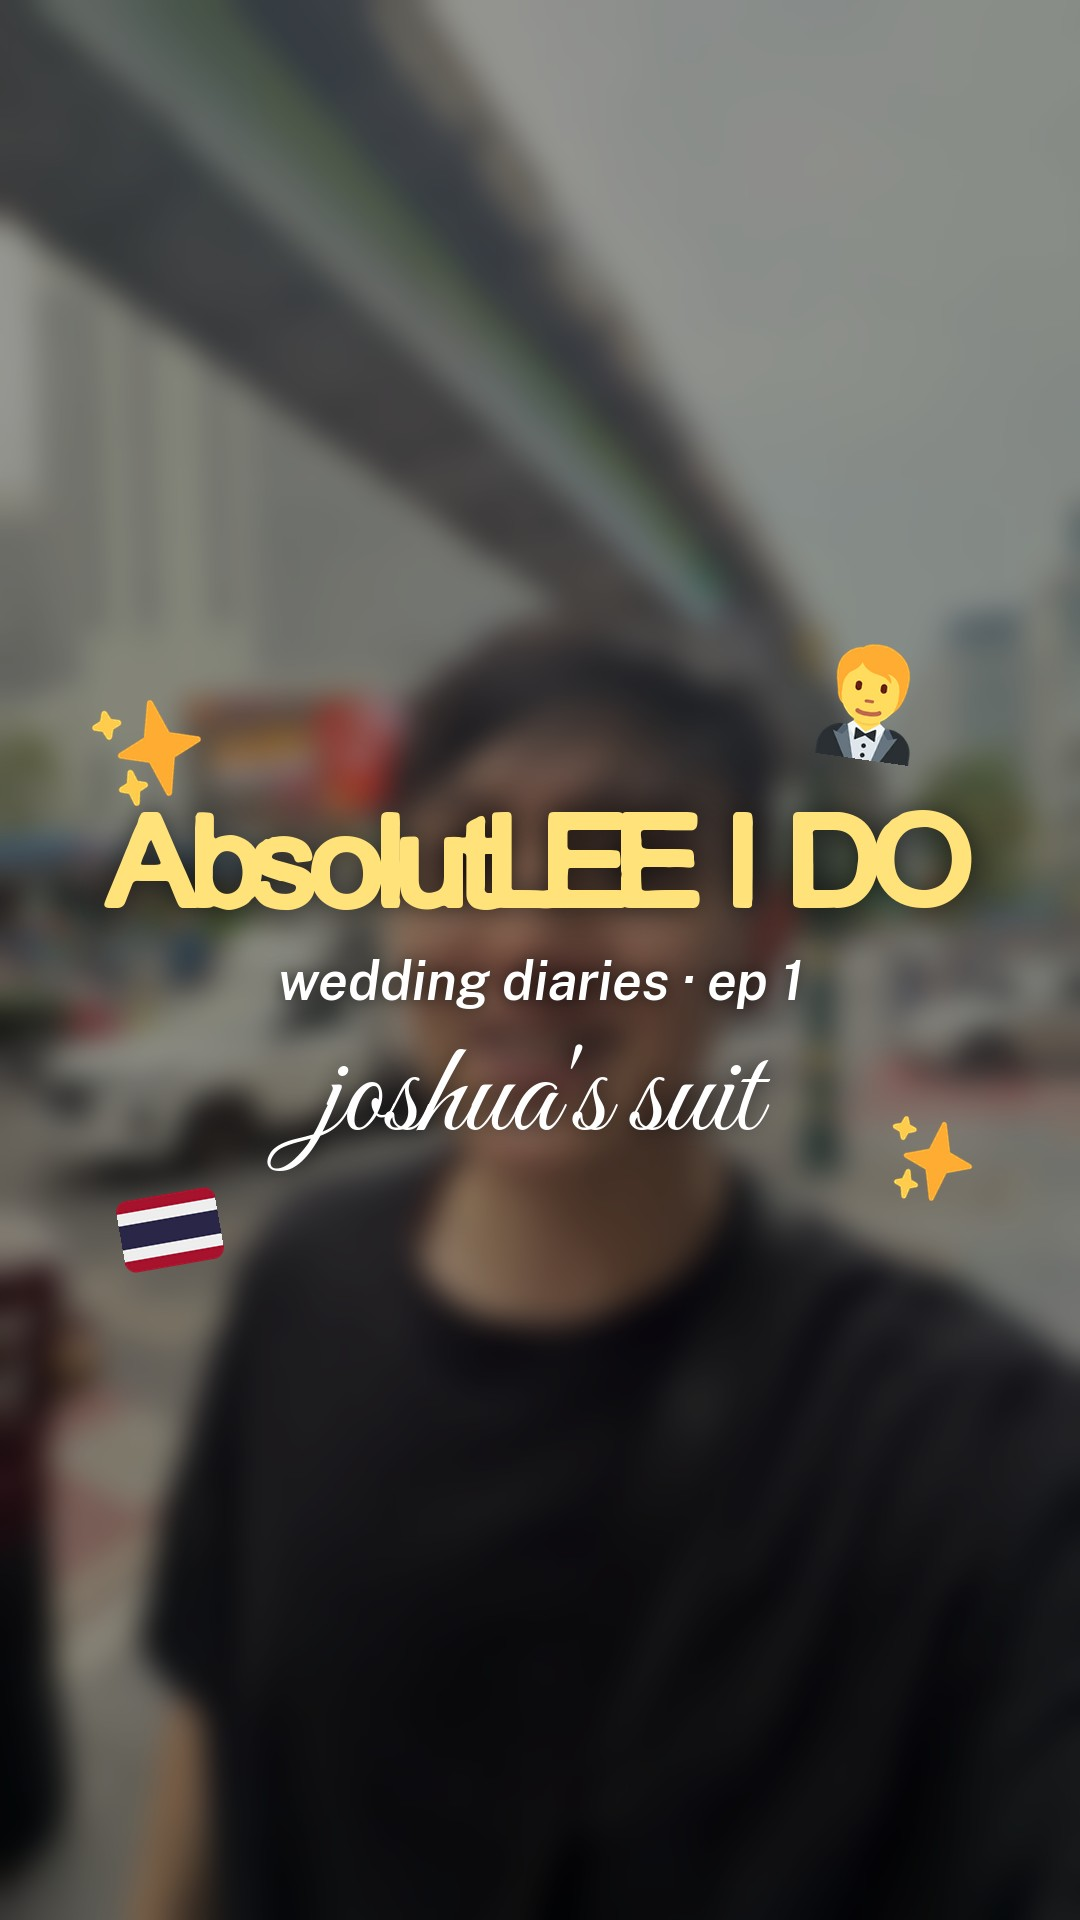
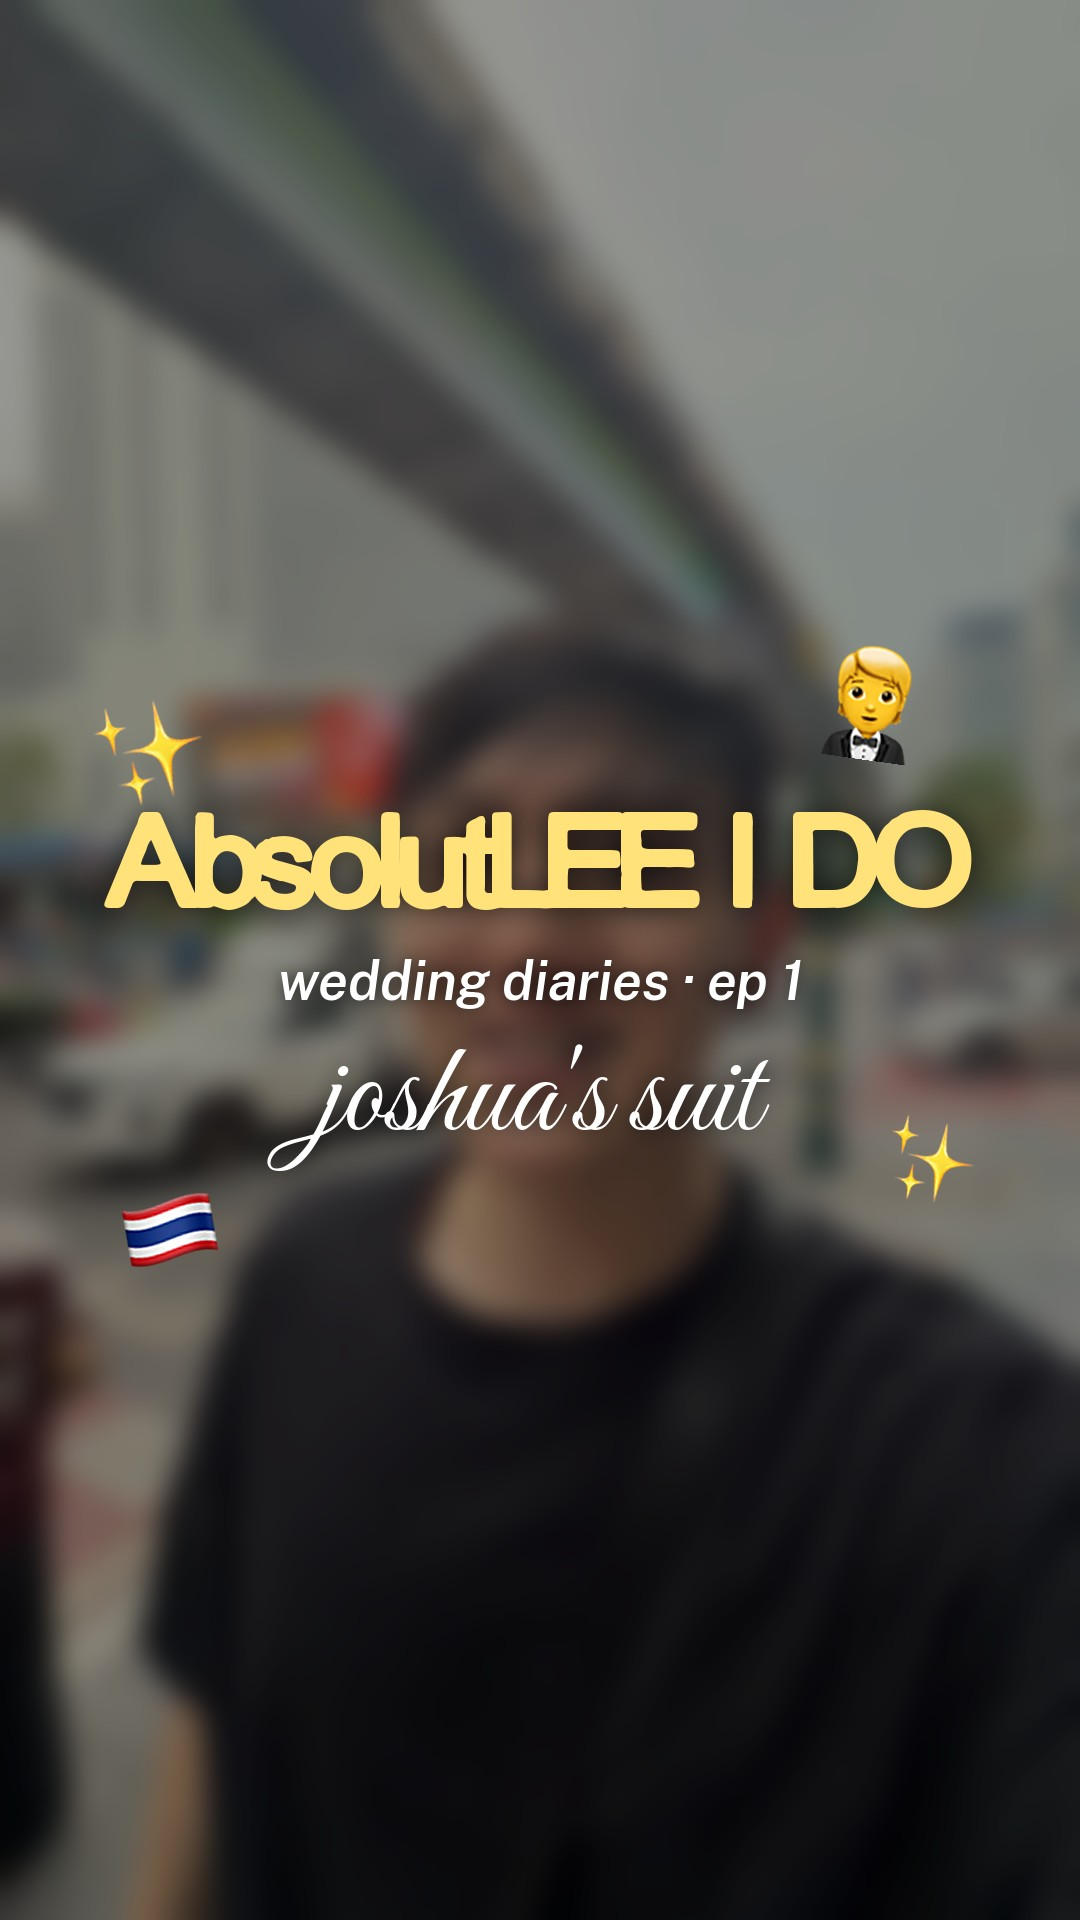
Ep 1: new title frame, full voiceover script, iOS emoji
Claude-Session: https://claude.ai/code/session_01T9Xb58pVenXMcWoNtDPL6M

diff --git a/episodes/ep01_suit/title.py b/episodes/ep01_suit/title.py
@@ -1,0 +1,46 @@
+"""Opening title frame (also the TikTok cover), in the style of the absolutlee abroad posts."""
+import sys
+from pathlib import Path
+from PIL import Image, ImageDraw
+sys.path.insert(0, str(Path(__file__).resolve().parents[2] / 'tools'))
+from style import *
+
+S = Path(sys.argv[1])
+OUT = Path(__file__).parent
+TAG_BG, TAG_FG = (200, 228, 252, 225), (35, 60, 110)
+
+
+def tag(img, center, s, size=46, angle=0):
+    """[ bracket label ] on a light-blue box, slightly rotated."""
+    f = font('caption_reg', size)
+    w = int(f.getlength(s)) + 44
+    h = size + 30
+    t = Image.new('RGBA', (w, h), (0, 0, 0, 0))
+    d = ImageDraw.Draw(t)
+    d.rectangle((0, 0, w, h), fill=TAG_BG)
+    d.text((w / 2, h / 2), s, font=f, fill=TAG_FG, anchor='mm')
+    t = t.rotate(angle, resample=Image.BICUBIC, expand=True)
+    img.alpha_composite(t, (int(center[0] - t.width / 2), int(center[1] - t.height / 2)))
+
+
+im = Image.open(S / 'f_title.png').convert('RGBA').resize((W, H))
+# soft top gradient so the title pops off the bright ceiling
+g = Image.new('RGBA', (W, H), (0, 0, 0, 0))
+gd = ImageDraw.Draw(g)
+for y in range(800):
+    gd.line((0, y, W, y), fill=(0, 0, 0, int(80 * (1 - y / 800))))
+im.alpha_composite(g)
+
+tag(im, (700, 140), '[ wedding series ]', 48, angle=-5)
+text(im, (W // 2, 265), 'absolutlee', font('bootzy', 170), BUTTER, shadow=12)
+text(im, (W // 2 - 30, 440), 'i do', font('bootzy', 260), 'white', shadow=16)
+paste_emoji(im, '💍', (815, 355), 140, -18)
+tag(im, (770, 700), '[ ep 1: custom suits ]', 46, angle=3)
+
+paste_emoji(im, '🇹🇭', (120, 175), 110, 8)
+paste_emoji(im, '✈', (235, 100), 100, -15)
+paste_emoji(im, '🤵', (175, 450), 105, -10)
+paste_emoji(im, '✂', (120, 760), 90, 15)
+paste_emoji(im, '❤', (985, 240), 80, 12)
+im.convert('RGB').save(OUT / 'still_title.jpg', quality=92)
+print('ok')

diff --git a/tools/style.py b/tools/style.py
@@ -3,7 +3,7 @@ from pathlib import Path
 from PIL import Image, ImageDraw, ImageFont, ImageFilter
 
 ROOT = Path(__file__).resolve().parent.parent
-FONTS, EMOJI = ROOT / 'fonts', ROOT / 'assets' / 'emoji'
+FONTS, EMOJI = ROOT / 'fonts', ROOT / 'assets' / 'emoji_ios'   # Apple (iOS) emoji, 64px source
 BUTTER = (255, 226, 122)          # #FFE27A
 CREAM = (255, 250, 235)
 INK = (40, 36, 30)
@@ -11,7 +11,8 @@ W, H = 1080, 1920
 
 EMOJI_CODES = {'📍': '1f4cd', '💸': '1f4b8', '🧵': '1f9f5', '🗓': '1f5d3', '✅': '2705', '✨': '2728',
                '🤵': '1f935', '💍': '1f48d', '🦩': '1f9a9', '🍺': '1f37a', '😍': '1f60d', '🎉': '1f389',
-               '👀': '1f440', '📏': '1f4cf', '🇹🇭': '1f1f9-1f1ed', '💛': '1f49b'}
+               '👀': '1f440', '📏': '1f4cf', '🇹🇭': '1f1f9-1f1ed', '💛': '1f49b', '✈': '2708', '👔': '1f454',
+               '✂': '2702', '🥰': '1f970', '❤': '2764', '📸': '1f4f8', '🤍': '1f90d'}
 
 
 def font(kind, size):
@@ -39,7 +40,8 @@ def text(img, xy, s, f, fill, anchor='mm', shadow=10, shadow_alpha=170):
 
 
 def emoji(ch, size):
-    return Image.open(EMOJI / f'{EMOJI_CODES[ch]}.png').convert('RGBA').resize((size, size), Image.LANCZOS)
+    e = Image.open(EMOJI / f'{EMOJI_CODES[ch]}.png').convert('RGBA').resize((size, size), Image.LANCZOS)
+    return e.filter(ImageFilter.UnsharpMask(radius=2, percent=60, threshold=2)) if size > 64 else e
 
 
 def paste_emoji(img, ch, center, size, angle=0):

diff --git a/episodes/ep01_suit/storyboard.md b/episodes/ep01_suit/storyboard.md
@@ -1,43 +1,54 @@
-# AbsolutLEE I DO · Wedding Diaries Ep 1: Joshua's suit in Bangkok
+# AbsolutLEE I DO · Wedding series ep 1: custom suits (Bangkok)
 
-Target length: about 70s. Vertical 9:16, no music (sound added in TikTok).
+Target length: about 1:20–1:30. Vertical 9:16. No music (sound added in TikTok).
 
 **Text styles**
-- **Bootzy** (#FFE27A butter yellow): series title and big moments
-- **Great Vibes** script (accent): emotional words
-- **Public Sans Italic** (white, lowercase): captions
-- **Be Vietnam Pro**: info card at the end only
-- Emojis pop in with a bounce animation
+- **Bootzy**: "absolutlee" in butter yellow #FFE27A, "i do" in white, plus big moments
+- **Light-blue [ bracket tags ]**: Public Sans Italic
+- **Great Vibes** script: emotional accent words
+- **Public Sans Italic**: captions, white, lowercase
+- **Be Vietnam Pro**: info card, at the end only
+- **iOS (Apple) emojis**: pop in with a bounce
 
-**Audio key**
-- **VO**: Joshua's voiceover (voice memo)
-- **OG**: original clip audio kept
-- **SFX**: sound effect
+**Timeline from the footage**
+- **Fri 6 Nov, 4:48pm:** arrive. Fabric, measurements, lining and shirt (about 1 hr).
+- **Fri, about 7:30pm:** fitting 1 (basted jacket)
+- **Sat 7 Nov, about 7:50pm:** fitting 2
+- **Mon 9 Nov, about 1:15pm:** final try-on and collection
 
-| # | Time | Clips | Audio / words | On screen + motion |
-|---|---|---|---|---|
-| 1 | 0:00–0:03 | 2336 (burgundy double-breasted turn) | VO: "i flew to bangkok to get my wedding suits made. yes, suits. plural." | Freeze frame on the turn with a camera flash and shutter SFX. Hook text at the top, plus 🤵 and 🇹🇭 popping in. |
-| 2 | 0:03–0:07 | 1401 and 5387 (proposal kneel, "she said yes" arm raise) | VO: "if you watched our proposal prep videos… well, she said yes. so now? it's wedding prep time." | Quick cuts. A photo-frame still of the kneel slides in with a whoosh. 💍 pops in. |
-| 3 | 0:07–0:10 | 1963 (Bangkok street, blurred behind) | SFX: sparkle | **Centred:** "AbsolutLEE I DO" (Bootzy) + "wedding diaries · ep 1" + "joshua's suit" (script). ✨ twinkles, zoom-in transition out. |
-| 4 | 0:10–0:14 | 1963 → 1966/1967 shopfront (whip pan) | OG: "we're here for ricky's fashion house. let's go make some suits." | 📍 "ricky's fashion house, bangkok" pops in small |
-| 5 | 0:14–0:21 | 1968 fabric wall, 1976 rolls, 1971/1972/1974/1975 swatch books, 0.6–0.8s cuts | VO: "first, fabric. there were literally hundreds of options… i went with a bold burgundy… and a classic black." | Pop SFX on each cut. 👀 on "hundreds". Speed ramp on the fabric wall. |
-| 6 | 0:21–0:27 | 1977 arm measure, 1994 neck, 1979 order book | VO: "then measurements. every. single. inch." + OG laugh line from 1977 ("i must make some eye contact") | Each word lands with a punch-in zoom. 📏 pops in. Order book shown as a freeze-frame still. |
-| 7 | 0:27–0:33 | 1983 flamingo lining, 1980/1981/1982 photos as polaroids, 1989 | VO: "and the fun part, the lining. we went with flamingos, because why not." + OG "the flamingo is matching" | Polaroid stills slide in with a shutter SFX. 🦩 bounces. "*why not*" in script. |
-| 8 | 0:33–0:39 | 1999 walk in (night), 2004/2005/2006 basted first fitting | VO: "same evening, first fitting. still in pieces, but already looking promising." | "fitting 1/2" tag. Whoosh transition. |
-| 9 | 0:39–0:49 | 2121 shirt mirror selfie, 2335 trousers, then **2336 reveal** | OG tailor: "completely different when you came in… look like a million bucks." | Slow-mo reveal, freeze frame and sparkle. "*so dapper*" in script. 😍 pops in. |
-| 10 | 0:49–0:55 | 2340/2339 flamingo lining close-up, 2341/2342 ties | VO: "working cuffs so i can wear cufflinks, flamingos on the inside, and matching ties. two looks for the big day." | Quick detail cuts. ✨ |
-| 11 | 0:55–0:58 | 2337/2338 beer | VO: "oh, and they gave me a beer." | 🍺 pops in, comedic freeze frame + pop SFX |
-| 12 | 0:58–1:03 | 2352/2353 collection, 2351 garment bag swing | OG: "alright guys, got my suit. let's go!" | 🎉 pops in, whoosh |
-| 13 | 1:03–1:12 | Info card over a blurred 2336 still, then a 4-photo collage | VO: "all the details are here. ep 2 coming soon." | **Info card (Be Vietnam Pro):** 📍 ricky's fashion house, bangkok · 💸 S$1,038.29: 2 suits, 2 ties, 1 shirt incl. alterations · 🧵 2 fittings (30–45 min each) · 🗓 friday visit, monday collect · ✅ would recommend: friendly team, great advice. Then "ep 2 coming soon ✦" |
+## Voiceover script (Joshua)
 
-## Voiceover script for Joshua (record each line separately, with a pause between)
+1. i flew to bangkok to get my wedding suits made. here's exactly how it went, how much it cost, and if it's worth it.
+2. if you've seen our proposal prep videos… well, she said yes. so now it's wedding prep time.
+3. we went to ricky's fashion house, along sukhumvit soi 3. tip: message them before you fly with photos of the style you want.
+4. friday afternoon, we started with fabric. there are hundreds of options, so go in knowing your colours. i picked a bold burgundy… and a classic black.
+5. then measurements. every. single. inch. the whole consult took about an hour.
+6. the fun part is the details. we chose a flamingo lining, because why not. and for the shirt, they suggested french cuffs so i can wear cufflinks.
+7. first fitting was that same evening. the jacket is still in pieces, they pin and chalk it right on you. second fitting was the next night.
+8. on monday, i collected them.
+9. they matched ties to both suits… and yes, they gave me a beer.
+10. all in: two suits, two ties and a shirt, alterations included, for about a thousand sgd. give yourself at least three days for fittings.
+11. would i recommend them? yes. super friendly team, great advice, and they really know their suits. ep 2 coming soon.
 
-1. i flew to bangkok to get my wedding suits made. yes, suits. plural.
-2. if you watched our proposal prep videos… well, she said yes. so now? it's wedding prep time.
-3. first, fabric. there were literally hundreds of options… i went with a bold burgundy… and a classic black.
-4. then measurements. every. single. inch.
-5. and the fun part, the lining. we went with flamingos, because why not.
-6. same evening, first fitting. still in pieces, but already looking promising.
-7. working cuffs so i can wear cufflinks, flamingos on the inside, and matching ties. two looks for the big day.
-8. oh, and they gave me a beer.
-9. all the details are here. ep 2 coming soon.
+**Original audio kept**
+- 1963: "let's go make some suits"
+- 1977: "i must make some eye contact"
+- 2336 tailor: "completely different when you came in… look like a million bucks"
+- 2352: "alright guys, got my suit. let's go!"
+
+## Storyboard
+
+| # | Clips | Audio | On screen + motion |
+|---|---|---|---|
+| 0 | 2336 @85s | (first frame, also the TikTok cover) | **Title frame** (`still_title.jpg`): "absolutlee / i do", [ wedding series ], [ ep 1: custom suits ]. Emojis pop in one by one. Holds about 1.5s under VO line 1. |
+| 1 | 2336 reveal, 2352 bag | VO 1 | Quick 3-cut teaser of the end result. Flash and shutter SFX on a freeze frame. |
+| 2 | 1401 + 5387 proposal | VO 2 | Photo-frame still of the kneel slides in with a whoosh, 💍 |
+| 3 | 1963 street, 1966/1967/1965 shopfront | OG 1963 + VO 3 | Whip pan. 📍 tag "ricky's fashion house, sukhumvit soi 3". 💡 "tip" sticker. |
+| 4 | 1968, 1976, 1971/1972/1974/1975 swatches | VO 4 | 0.6s cuts, pop on each, 👀, speed ramp |
+| 5 | 1977, 1994, 1979 order book | VO 5 + OG 1977 | Punch-in zooms on each word, 📏, freeze frame |
+| 6 | 1983/1980–1982 lining, 1993 shirt fabric | VO 6 | Polaroid stills with shutter SFX, 🦩, "*why not*" in script |
+| 7 | 1999, 2004–2006 (fri night), 2121 (sat) | VO 7 | "fitting 1" / "fitting 2" tags, whoosh |
+| 8 | 2332–2335 → **2336 reveal** | VO 8 + OG tailor | Slow-mo reveal, sparkle, "*so dapper*" in script, 😍 |
+| 9 | 2341/2342 ties, 2339/2340 lining close-up, 2337/2338 beer | VO 9 | Detail cuts. 🍺 with a funny freeze frame. |
+| 10 | 2352/2353/2351 collection | OG 2352 + VO 10 | 🎉, then cuts to bag shots |
+| 11 | Info card over blurred 2336, then collage | VO 11 | **Info card** (`still_infocard.jpg`) slides up with a ding, "ep 2 coming soon ✨" |
